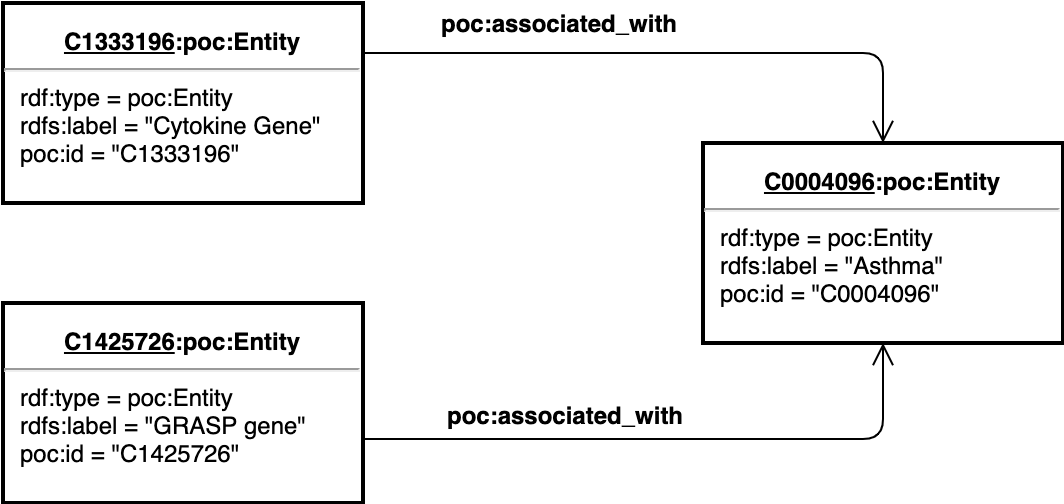
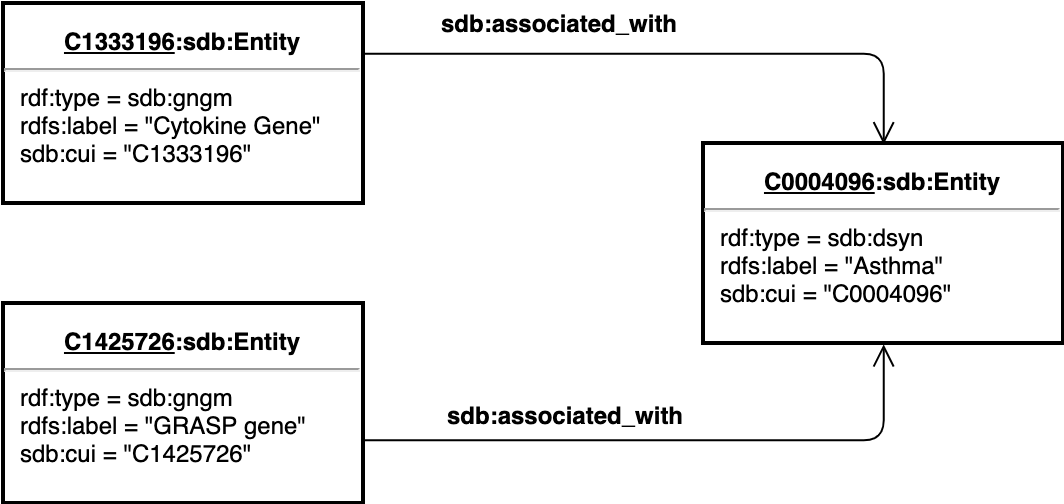
Intermediate version, README and some queries added

diff --git a/README.md b/README.md
@@ -2,21 +2,33 @@
 
 This prototype demonstrates the various levels of integrating and exploring the freely available Semantic MEDLINE Database ([SemMedDB](https://skr3.nlm.nih.gov/SemMedDB/index.html)) in Stardog. The database is maintained and annualy updated by the U.S. National Library of Medicine (NLM). SemMedDB is automatically extracted via [SemRep](https://semrep.nlm.nih.gov) by parsing biomedical texts ([PubMed](https://www.ncbi.nlm.nih.gov/pubmed/) citations). As such it may support use cases of relation discovery, hypothesis generation, clinical decision making etc. 
 
-# Resources
-- Solutions-internal folder on [SemMedDB](https://paper.dropbox.com/doc/SemMedDB--Alh7lRNqtqjU2XuTsZm9_F6lAg-GhgmPbUj11Q2izuYD4vYD)
-
 
 # SemMedDB v3 Schema
 
-The primary purpose of SemMedDB  is to capture *RDF-like* ternary relationships between biomedical entities (subject-predicate-object) extracted from scientifc sources. The SemMedDB database consists of [multiple tables](https://skr3.nlm.nih.gov/SemMedDB/dbinfo.html). These collect the  metadata about processed PubMed citations (table `CITATION`), the content of respective citations, i.e. the title or abstract (table `SENTENCE`), a number of formalized statments derived from this input (table `PREDICATION`), and auxiliary information on these predications (table `PREDICATION_AUX`) allowing, e.g., to assess the extraction quality. Table `COREFERENCE` lists the back references (optionally) generated by SemRep with Anaphora resolution. Additional information on entities involved in predications, e.g. their [Entrez Gene](https://www.ncbi.nlm.nih.gov/pmc/articles/PMC3013746/) ID (when applicable), are listed in table `ENTITY`.
+The primary purpose of SemMedDB  is to capture *RDF-like* ternary relationships between biomedical entities (subject-predicate-object) extracted from scientifc sources. The SemMedDB database consists of [multiple tables](https://skr3.nlm.nih.gov/SemMedDB/dbinfo.html). These collect the  metadata about processed PubMed citations (table `CITATION`), the content of respective citations, i.e. the title or abstract (table `SENTENCE`), a number of formalized statments derived from this input (table `PREDICATION`), and auxiliary information on these predications (table `PREDICATION_AUX`) allowing, e.g., to assess the extraction quality. Table `COREFERENCE` lists the back references (optionally) generated by SemRep with Anaphora resolution. Additional information on entities involved in predications is covered by table `ENTITY`.
 
 ![SemMedDB v3 schema](figures/SemMedDB_3.1.png "Entity-relationship diagram of SemMedDB v3.1")
 
 # Data Model
-This demo focuses on showcasing integration and querying of (relational) biomedical data in Stardog. Considering the central table `PREDICATION` seems sufficient for purposes of this POC. Individual *predications* relate a biomedical *entity* (subject) to another entity (object) by means of a *predicate* such as `AFFECTS` or its negation (`NEG_AFFECTS`), see [Kilicoglu et al.](https://www.researchgate.net/publication/51903378_Constructing_a_semantic_predication_gold_standard_from_the_biomedical_literature) for predicates definitions and [here](predicates.txt) for listing of effectively used predicates. 
+This demo focuses on showcasing integration and querying of (relational) biomedical data in Stardog. It leverages the `PREDICATION` table to retrieve  *predications* relating a biomedical *entity* (subject) to another entity (object) by means of a *predicate* such as `AFFECTS` or its negation (`NEG_AFFECTS`). The `ENTITY` table is integrated on demand to augment gene-specific information, i.e. the [Entrez Gene](https://www.ncbi.nlm.nih.gov/pmc/articles/PMC3013746/) ID (column `GENE_ID`) and name (column `GENE_NAME`) of entities being described in predictions:
+
+Table | File size | Rows
+--- | --- | ---
+PREDICATION | 13Gb | 97.972.561
+ENTITY | 123Gb | 1.369.837.426
+
+The target graph model [semmeddb.ttl](model/semmeddb.ttl) trivially lifts the SemMedDB predications to RDF. Instances of the `sdb:Entity` class are related by the `sdb:predicate` relationship (derived from `owl:ObjectProperty`). The `sdb:SemanticType` class represents a concept an entity represents:
+
+![SemMedDB Graph Model](figures/SemMedDB.png "SemMedDB POC Graph Model")
+
+The following UML object diagram depicts the `sdb:associated_with` relation of the Cytokine gene (CUI `C1333196`, semantic type `gngm`, Gene or Genome) and GRASP gene (CUI `C1425726`) to the Asthma disease (CUI `C0004096`, semantic type `dsyn`, Disease or Syndrome):
+
+![Sample of the SemMedDB Graph Model ](figures/SemMedDB_object.png "Sample of the SemMedDB POC Graph Model")
 
 
-Entities at either position are identified by a *concept unique identifier* (CUI) in the column `SUBJECT_CUI` or `OBJECT_CUI`. The most CUIs are atomic strings (`C0039258`) while 
+## Identifiers
+
+Entities in predictions are identified by a *concept unique identifier* (CUI) in the column `SUBJECT_CUI` or `OBJECT_CUI`. The most CUIs are atomic strings (`C0039258`) while 
 3,28% of subject and 3% of object CUIs comprise a set of pipe-delimited parts, sample:
 
 ```
@@ -32,13 +44,15 @@ The entities are further described by a readable name (column `SUBJECT_NAME` or 
 "Receptor, PAR-1|MARK2|F2R|NR1I2|SLC52A2|PWAR1"
 "CUX1|NFKB2|OAS3|PMEL|SART3|TPX2|SND1|ASCC2"
 ```
-Depending on the interpretation of these composite identifiers alterantive mappings to Stardog's knowledge graph exist:
+Depending on the interpretation of these composite identifiers alterantive mappings to Stardog's knowledge graph may apply:
 
 1. The CUI is considered an *opaque* identifier, no particular handling appllies 
 2. The parts correspond to *aliases* of given (first) entity and should be linked to it, the 
 3. The parts correspond to *independent entities*, a new entity resource should be created for each. This approach may require a multi-pass integration
 
-NLM provides a delimiter-separated [file](https://metamap.nlm.nih.gov/Docs/SemanticTypes_2018AB.txt) which is used in the demo to resolve the cryptic [semantic type](https://metamap.nlm.nih.gov/SemanticTypesAndGroups.shtml) identifiers, sample:
+## Classes (Semantic Types)
+
+The [semantic type](https://metamap.nlm.nih.gov/SemanticTypesAndGroups.shtml) (category) of entities at subject or object position of a predication consits of string identifier (e.g. `gngm`). NLM provides a delimiter-separated [file](https://metamap.nlm.nih.gov/Docs/SemanticTypes_2018AB.txt) to reslove their labels, sample:
 
 ```
 ...
@@ -49,17 +63,33 @@ gngm|T028|Gene or Genome
 ...
 
 ```
+Applying virtual graph `import` command on mapping [`srdef.ttl`](mappings/srdef.ttl) this metadata is turned into class definitions, each semantic type being defined as subclass of the generic `sdb:SemanticType` class. For management purposes the model is maintained separately from data within a dedicated named graph (`urn:stardog:demo:semmeddb:model`). Following sample is retrieved by issuing the query [`retrieve_semantic_types.rq`](queries/retrieve_semantic_types.rq):
 
-The target graph model trivially lifts the SemMedDB predication model to RDF. The `Entity` classes are related by instances of the `Predicate` association (derived from `owl:ObjectProperty`):
+```
+sdb:gngm rdfs:subClassOf sdb:SemanticType .
+sdb:gngm rdfs:label "Gene or Genome"@en .
+sdb:gngm sdb:tui "T028" .
+...
+```
 
-![SemMedDB Graph Model](figures/SemMedDB.png "SemMedDB POC Graph Model")
+## Predicates
 
-The following UML object diagram depicts the `poc:associated_with` relation of the Cytokine gene (CUI `C1333196`, semantic type `gngm`, Gene or Genome) and GRASP gene (CUI `C1425726`) to the Asthma disease (CUI `C0004096`, semantic type `dsyn`, Disease or Syndrome):
+[Kilicoglu et al.](https://www.researchgate.net/publication/51903378_Constructing_a_semantic_predication_gold_standard_from_the_biomedical_literature) provide definitions and usage examples of some predicates referenced by the `PREDICATION.PREDICATE` column. [66 distinct predicates](data/predicates.txt) were retrieved from the database. The mapping [`predicates.sms`](mappings/predicates.sms) consolidates their inconsistent spelling and creates appropriate `owl:ObjectProperty` definitions, making each predicate `rdfs:subPropertyOf` the generic `sdb:predicate`. Sample retrieved from `urn:stardog:demo:semmeddb:model` graph by issuing the query [`retrieve_semantic_types.rq`](queries/retrieve_semantic_types.rq):  
 
-![Sample of the SemMedDB Graph Model ](figures/SemMedDB_object.png "Sample of the SemMedDB POC Graph Model")
+```
+sdb:associated_with rdfs:subPropertyOf sdb:predicate .
+sdb:associated_with rdfs:label "associated_with" .
+```
 
-# POC Environment
-The SemMedDB is distributed as individual [MySQL import files](https://skr3.nlm.nih.gov/SemMedDB/download/download.html). An active MySQL instance (8.0.17) and Stardog (7.0.2) with a [MySQL JDBC-driver](https://dev.mysql.com/get/Downloads/Connector-J/mysql-connector-java-8.0.17.zip) installed in `$STARDOG_HOME/server/dbms/` or at `$STARDOG_EXT` are assumed. Please download, unpack and import the SemMedDB [PREDICATION table (2.51Gb)](https://skr3.nlm.nih.gov/SemMedDB/download/semmedVER40_R_PREDICATION.sql.gz) into MySQL:
+# Demo Environment
+
+An active MySQL instance (8.0.17) and Stardog (7.0.2) with a [MySQL JDBC-driver](https://dev.mysql.com/get/Downloads/Connector-J/mysql-connector-java-8.0.17.zip) installed in `$STARDOG_HOME/server/dbms/` or at `$STARDOG_EXT` are assumed.
+
+## Database
+
+The SemMedDB is distributed as individual [MySQL import files](https://skr3.nlm.nih.gov/SemMedDB/download/download.html).  Please download, unpack and import the SemMedDB [PREDICATION table (2.51Gb)](https://skr3.nlm.nih.gov/SemMedDB/download/semmedVER40_R_PREDICATION.sql.gz), plus (optionally) the [ENTITY table (38.2Gb)](https://skr3.nlm.nih.gov/SemMedDB/download/semmedVER40_R_ENTITY.sql.gz)
+
+1) Set-up the database `semmeddb4`:
 
 ```sql
 mysql>
@@ -67,9 +97,37 @@ mysql>
 	CREATE USER 'tester'@'localhost' IDENTIFIED BY 'stardog';
 	GRANT ALL PRIVILEGES ON semmeddb4 . * TO 'tester'@'localhost';
 	FLUSH PRIVILEGES;
-	USE semmeddb4; 
+```
+2) Load the SQL-import files into `semmeddb4` either:
 
-	# Create indexes to support searching by literals and processing CUIs 
+(a) via a background process on command line (recommended):
+
+```bash
+bash>
+ 	nohup mysql -u tester --password=stardog semmeddb < semmedVER40_R_PREDICATION.sql &
+	# Applies only when ENTITY table is used:
+	nohup mysql -u tester --password=stardog semmeddb < semmedVER40_R_ENTITY.sql &
+```
+ or (b) via the mysql console: 
+ 
+```sql	
+mysql>
+	SOURCE semmedVER40_R_PREDICATION.sql;
+	# Applies only when ENTITY table is used:
+	SOURCE semmedVER40_R_ENTITY.sql;
+```
+
+Clean up an obviuos error, numeric predicates are inalid (3 rows affected):
+
+```sql
+mysql> 
+	DELETE FROM predication WHERE predicate IN ("127", "1532", "241") ;
+```
+ 
+Create indexes to support searching by entity names and CUIs:
+
+```sql
+mysql>
 	CREATE INDEX subject_cui_index ON PREDICATION (subject_cui) USING BTREE;
 	CREATE INDEX subject_type_index ON PREDICATION (subject_semtype) USING BTREE;
 	CREATE INDEX subject_name_index ON PREDICATION (subject_name) USING BTREE;
@@ -77,14 +135,13 @@ mysql>
 	CREATE INDEX object_cui_index ON PREDICATION (object_cui) USING BTREE;
 	CREATE INDEX object_type_index ON PREDICATION (object_semtype) USING BTREE;
 	CREATE INDEX object_name_index ON PREDICATION (object_name) USING BTREE;
-
-	# 97.972.561 rows
-	SOURCE semmedVER40_R_PREDICATION.sql;
-
-	# Clean up an obviuos error, numeric predicates are inalid (3 rows affected)
-	DELETE FROM predication WHERE predicate IN ("127", "1532", "241") ;
+	
+	# Applies only when ENTITY table is used:
+	CREATE INDEX cui_index ON ENTITY (cui) USING BTREE;
 
 ```
+
+## Stardog server
 
 ```
 bash>
